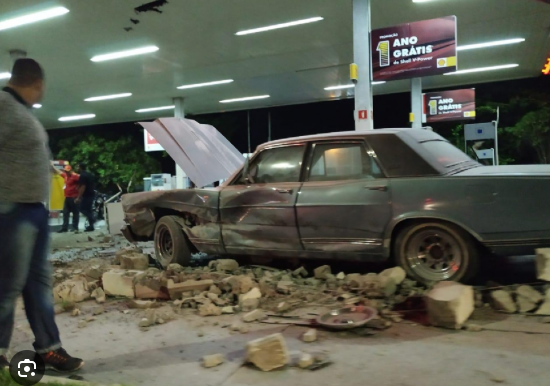
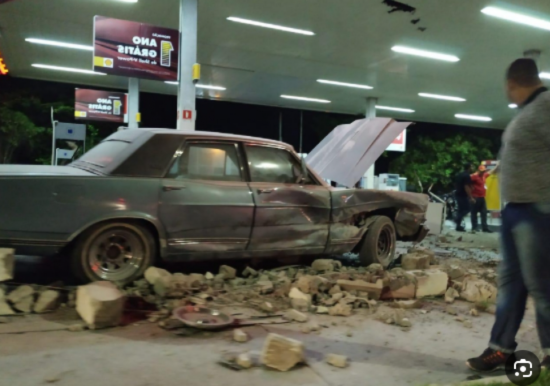
fix: Keydown para movimento do carro

diff --git a/04/script.js b/04/script.js
@@ -7,7 +7,7 @@ var gasto = 1;
 var velocidade = 1;
 
 var $carro = $("#carro");
-var $pag = $(".pagina");
+var $pag = $("#corpo");
 
 var inicioX = ($pag.width() - $carro.outerWidth()) / 2;
 var inicioY = ($pag.height() - $carro.outerHeight()) / 2;
@@ -19,103 +19,152 @@ var pixels = 10;
 
 var quebrado = false;
 
+var rotacao = 0;
+var direcao = "direita";
+var espelho = 1;
+
 window.addEventListener('keydown', (event) => {
     if(quebrado) {;
         return
     };
 
-    var topo = parseInt($carro.css("top")) || 0;
-    var left = parseInt($carro.css("left")) || 0;
-    var rotacao = "0";
-    var virar = "1";
+    var topoAtual = parseInt($carro.css("top")) || 0;
+    var leftAtual = parseInt($carro.css("left")) || 0;
 
-    switch(event.key) {
-        case "ArrowUp":
-            topo -= pixels*velocidade;
-            rotacao = "270deg";
-            atualizarGasolina();
-            break;
-        case "ArrowDown":
-            topo += pixels*velocidade;
-            rotacao = "90deg";
-            atualizarGasolina();
-            break;
-        case "ArrowLeft":
-            left -= pixels*velocidade;
-            rotacao = "0deg";
-            virar = "scaleX(-1)";
-            atualizarGasolina();
-            break;
-        case "ArrowRight":
-            left += pixels*velocidade;
-            rotacao = "0deg";
-            virar = "scaleX(1)";
-            atualizarGasolina();
-            break;
-    }   
+    var leftProximo=leftAtual;
+    var topoProximo=topoAtual;
 
-    var $pagina = $(".pagina");
-    // var limiteMaximoX = $pagina.width() - $carro.outerWidth();
-    // var limiteMaximoY = $pagina.height() - $carro.outerHeight();
+    if (event.key === "ArrowUp") {
+        topoProximo -= pixels * velocidade;
+
+        if (direcao === "direita") {
+            rotacao -= 90;
+        } else if (direcao === "cima") {
+            // mantém
+        } else if (direcao === "esquerda") {
+            rotacao += 90;
+        } else if (direcao === "baixo") {
+            rotacao -= 0;
+            if (espelho === 1) {
+                espelho = -1;
+            } else {
+                espelho = 1;
+            }
+        }
+
+        direcao = "cima";
+        atualizarGasolina();
+
+    } else if (event.key === "ArrowDown") {
+        topoProximo += pixels * velocidade;
+
+        if (direcao === "direita") {
+            rotacao += 90;
+        } else if (direcao === "cima") {
+            rotacao += 0;
+            if (espelho === 1) {
+                espelho = -1;
+            } else {
+                espelho = 1;
+            }
+        } else if (direcao === "esquerda") {
+            rotacao -= 90;
+        } else if (direcao === "baixo") {
+            // mantém
+        }
+
+        direcao = "baixo";
+        atualizarGasolina();
+
+    } else if (event.key === "ArrowLeft") {
+        leftProximo -= pixels * velocidade;
+
+        if (direcao === "direita") {
+            rotacao += 0;
+            if(espelho === 1) {
+                espelho = -1;
+            } else {
+                espelho = 1;
+            }
+        } else if (direcao === "cima") {
+            rotacao -= 90;
+        } else if (direcao === "esquerda") {
+            // mantém
+        } else if (direcao === "baixo") {
+            rotacao += 90;
+        }
+
+        direcao = "esquerda";
+        atualizarGasolina();
+
+    } else if (event.key === "ArrowRight") {
+        leftProximo += pixels * velocidade;
+
+        if (direcao === "direita") {
+            // mantém
+        } else if (direcao === "cima") {
+            rotacao += 90;
+        } else if (direcao === "esquerda") {
+            rotacao += 0;
+            if(espelho === -1) {
+                espelho = 1;
+            } else {
+                espelho = -1;
+            }
+        } else if (direcao === "baixo") {
+            rotacao -= 90;
+        }
+
+        direcao = "direita";
+        atualizarGasolina();
+
+    } 
+
+    var $pagina = $("#corpo");
 
     var larguraCarro = $carro.outerWidth();
     var alturaCarro = $carro.outerHeight();
 
-    if (rotacao === "90deg" || rotacao === "270deg") {
+    if (rotacao===90 || rotacao===-90) {
         var temp = larguraCarro;
         larguraCarro = alturaCarro;
         alturaCarro = temp;
     }
 
-    var ajusteX = (larguraCarro - $carro.outerWidth()) / 2;
-    var ajusteY = (alturaCarro - $carro.outerHeight()) / 2;
+    var ajusteX = (larguraCarro - $carro.width()) / 2;
+    var ajusteY = (alturaCarro - $carro.height()) / 2;
 
     var limiteMinimoX = ajusteX;
-    var limiteMaximoX = $pagina.width() - $carro.outerWidth() - ajusteX;
-
+    var limiteMaximoX = $pagina.width() - $carro.width() - ajusteX;
     var limiteMinimoY = ajusteY;
-    var limiteMaximoY = $pagina.height() - $carro.outerHeight() - ajusteY;
+    var limiteMaximoY = $pagina.height() - $carro.height() - ajusteY;
 
-    if (left < limiteMinimoX) {
-        left = limiteMinimoX;
+    if (leftProximo < limiteMinimoX) {
+        leftProximo = limiteMinimoX;
+    } else if (leftProximo > limiteMaximoX) {
+        leftProximo = limiteMaximoX;
     }
-    if (left > limiteMaximoX) {
-        left = limiteMaximoX;
-    }
-    if (topo < limiteMinimoY) {
-        topo = limiteMinimoY;
-    }
-    if (topo > limiteMaximoY) {
-        topo = limiteMaximoY;
+    
+    if (topoProximo < limiteMinimoY) {
+        topoProximo = limiteMinimoY;
+    } else if (topoProximo > limiteMaximoY) {
+        topoProximo = limiteMaximoY;
     }
 
-    // if (left < 0) {
-    //     left = 0;
-    // }
-    // if (left > limiteMaximoX) {
-    //     left = limiteMaximoX;
-    // }
-    // if (topo < 0) {
-    //     topo = 0;
-    // }
-    // if (topo > limiteMaximoY) {
-    //     topo = limiteMaximoY;
-    // }
-
-    if (left===limiteMinimoX || left===limiteMaximoX || topo===limiteMinimoY || topo===limiteMaximoY) {
-        $carro.css("left", left + "px");
-        $carro.css("top", topo + "px");
+    if (leftProximo===limiteMinimoX || leftProximo===limiteMaximoX 
+        || topoProximo===limiteMinimoY || topoProximo===limiteMaximoY) {
+        $carro.css("left", leftProximo + "px");
+        $carro.css("top", topoProximo + "px");
         $carro.css("rotate", rotacao);
-        $carro.css("transform", virar);
 
         batida();
         return;
     }
 
-    $carro.css("left", left + "px");
-    $carro.css("top", topo + "px");
-    $carro.css("rotate", rotacao);
-    $carro.css("transform", virar);
+    $carro.css("left", leftProximo + "px");
+    $carro.css("top", topoProximo + "px");
+    $carro.css("transform", "rotate(" + rotacao + "deg) scaleX(" + espelho + ")");
+
 });
 
 var modoTurbo = false;
@@ -159,6 +208,7 @@ function atualizarGasolina() {
     }
 
     var nova = (gasolinaAtual / gasolinaMax) * 100;
+    $("#barra").css("width", nova + "%");
 
     if(nova === 0 && !quebrado) {
         Swal.fire({
@@ -173,8 +223,6 @@ function atualizarGasolina() {
             resetaPagina();
         });
     }
-
-    $("#barra").css("width", nova + "%");
 }
 
 document.getElementById("botao-abastecer").addEventListener("click", function(event) {
@@ -201,15 +249,23 @@ function batida() {
     $carro = $("#carro");
     $carro.attr("src", "../img/landau_batido.png");
 
-    Swal.fire({
-        title: "Acidente",
-        text: "Você bateu na borda!",
-        icon: "error",
-        customClass: {
-            popup: "alerta-batida"
-        },
-        confirmButtonText: "Ok"
-    }).then((result) => {
-        resetaPagina();
-    });
+    setTimeout(() => {
+        Swal.fire({
+            title: "Acidente",
+            text: "Você bateu na borda!",
+            icon: "error",
+            customClass: {
+                popup: "alerta-batida"
+            },
+            confirmButtonText: "Ok"
+        }).then((result) => {
+            resetaPagina();
+        });
+    }, 500);
+
+    
 }
+
+document.getElementById("botao-reiniciar").addEventListener("click", function(event) {
+    resetaPagina();
+});

diff --git a/04/style.css b/04/style.css
@@ -3,13 +3,12 @@ body {
     font-family: Arial, sans-serif;
     margin: 0;
     padding: 0;
-    background-color: lightgray;
     min-height: 100vh;
     width: 100%;
     height: 100%;
     display: flex;
     flex-direction: column;
-    /* overflow: hidden; */
+    overflow: hidden;
 }
 
 header {
@@ -21,15 +20,15 @@ header {
     display: flex;
     height: auto;
     width: auto;
-    margin-top: 5px;
+    padding-top: 5px;
 }
 
 .botao-abastecer {
     display: block;
     margin-left: 5px;
     height: 25px;
-    width: 70px;
-    font-size: 9px;
+    width: 80px;
+    font-size: 12px;
     background-color: rgb(5, 148, 5);
     color: white;
     font-weight: bold;
@@ -43,8 +42,8 @@ header {
     display: block;
     margin-left: 5px;
     height: 25px;
-    width: 70px;
-    font-size: 9px;
+    width: 80px;
+    font-size: 12px;
     background-color: rgb(5, 148, 5);
     color: white;
     font-weight: bold;
@@ -85,11 +84,10 @@ header {
 
 .pagina {
     position: relative;
-    width: 100vw;
-    height: 100vh;
+    width: 100%;
+    height: 100%;
     flex: 1;
     box-sizing: border-box;
-    margin-top: 3px;
 }
 
 .carro {
@@ -99,8 +97,7 @@ header {
     border: none !important;
     top: 0;
     left: 0;
-    rotate: 0deg;
-    transform: scaleX(1);
+    transform: rotate(0deg) scaleX(1);
 }
 
 .gasolina {
@@ -109,7 +106,7 @@ header {
     justify-content: center;
     align-items: center;
     text-align: center;
-    font-size: 10px;
+    font-size: 12px;
     padding-top: 10px;
     width: 100%;
     bottom: 10px;

diff --git a/04/index.html b/04/index.html
@@ -13,6 +13,7 @@
         <div class="pagina" id="corpo">
             <header>
                 <div class="cabeca" id="topo">
+                    <button class="botao-abastecer" id="botao-reiniciar">Reiniciar</button>
                     <button class="botao-abastecer" id="botao-abastecer">Abastecer</button>
                     <button class="botao-turbo" id="botao-turbo">Turbo</button>
                     <span class="texto-turbo" id="texto-turbo">Modo turbo está <span class="texto-ativo">ATIVO</span>!</span>
